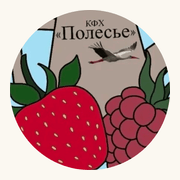
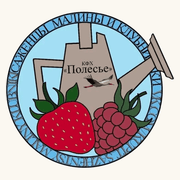
Эмблема целиком и крупнее, иконки шапки крупнее, подписи в корзине
Эмблема обрезалась: в шапке стоял вырезанный из неё диск без кольца, и нижний
край клубники срезало маской. Теперь везде — эмблема целиком, файл квадратный
с прозрачными полями, вписывается object-contain и не режется ни в каком размере.
Вариант без кольца убран, D-28 переписано.

В скрипте подготовки вместо вырезания диска — resize с fit: "contain". Отдельный
extend не годится: sharp выполняет операции в своём порядке и дополняет уже после
масштабирования, а resize по умолчанию режет по cover — из-за этого первая версия
квадрата и получилась обрезанной сверху и снизу.

Размеры: знак в шапке 32→44 px, на десктопе 48, в футере 36→48, на «О питомнике»
и в накладной тоже крупнее. Иконки поиска, избранного, кабинета и корзины 20→24 px,
кнопки под палец 40→44 px, счётчик подогнан под новый размер.

Подписи в компактном блоке доверия уезжали за карточку: три колонки раскладывались
по ширине экрана, а блок живёт в узкой колонке корзины и чекаута — на планшете
каждая колонка получала около 90 px, и текст закрывала соседняя карточка. В боковой
колонке блок теперь идёт списком, флекс-элементу добавлен min-w-0.

diff --git a/Seedlings/site/components/site-header.tsx b/Seedlings/site/components/site-header.tsx
@@ -50,15 +50,15 @@ export function SiteHeader() {
       <div className="shell flex h-16 items-center gap-3 lg:h-20 lg:gap-6">
         <button
           type="button"
-          className="text-ink -ml-1 flex size-10 items-center justify-center lg:hidden"
+          className="text-ink -ml-1 flex size-11 items-center justify-center lg:hidden"
           onClick={() => open("menu")}
           aria-label="Открыть меню"
         >
-          <IconMenu className="size-6" />
+          <IconMenu className="size-7" />
         </button>
 
         <Link href="/" className="flex items-center gap-2" aria-label={`${COMPANY.name} — на главную`}>
-          <Logo className="h-8 w-auto lg:h-9" priority />
+          <Logo className="h-11 w-auto lg:h-12" priority />
         </Link>
 
         <nav className="ml-4 hidden items-center gap-5 lg:flex">
@@ -124,33 +124,33 @@ export function SiteHeader() {
         <div className="ml-auto flex items-center gap-1">
           <button
             type="button"
-            className="hover:text-leaf flex size-10 items-center justify-center"
+            className="hover:text-leaf flex size-11 items-center justify-center"
             onClick={() => open("search")}
             aria-label="Поиск по каталогу"
           >
-            <IconSearch className="size-5" />
+            <IconSearch className="size-6" />
           </button>
           <Link
             href="/favorites"
-            className="hover:text-leaf relative flex size-10 items-center justify-center"
+            className="hover:text-leaf relative flex size-11 items-center justify-center"
             aria-label={`Избранное, ${favorites.length} ${plural(favorites.length, "товар", "товара", "товаров")}`}
           >
-            <IconHeart className="size-5" />
+            <IconHeart className="size-6" />
             {favorites.length > 0 && <Counter value={favorites.length} />}
           </Link>
           <Link
             href="/account"
-            className="hover:text-leaf hidden size-10 items-center justify-center lg:flex"
+            className="hover:text-leaf hidden size-11 items-center justify-center lg:flex"
             aria-label="Личный кабинет"
           >
-            <IconUser className="size-5" />
+            <IconUser className="size-6" />
           </Link>
           <Link
             href="/cart"
-            className="hover:text-leaf relative flex size-10 items-center justify-center"
+            className="hover:text-leaf relative flex size-11 items-center justify-center"
             aria-label={`Корзина, ${cartCount} ${plural(cartCount, "товар", "товара", "товаров")}`}
           >
-            <IconCart className="size-5" />
+            <IconCart className="size-6" />
             {cartCount > 0 && <Counter value={cartCount} />}
           </Link>
         </div>
@@ -164,7 +164,7 @@ export function SiteHeader() {
 
 function Counter({ value }: { value: number }) {
   return (
-    <span className="bg-leaf absolute top-1 right-0.5 min-w-4.5 rounded-full px-1 text-center text-[11px] leading-4.5 font-semibold text-white">
+    <span className="bg-leaf absolute top-1 right-0 min-w-5 rounded-full px-1 text-center text-xs leading-5 font-semibold text-white">
       {value}
     </span>
   );
@@ -174,7 +174,7 @@ function MobileMenu({ onClose, counts }: { onClose: () => void; counts: Record<s
   return (
     <div className="bg-cream fixed inset-0 z-50 flex flex-col lg:hidden">
       <div className="shell flex h-16 items-center justify-between">
-        <Logo className="h-8 w-auto" />
+        <Logo className="h-11 w-auto" />
         <button type="button" onClick={onClose} aria-label="Закрыть меню" className="flex size-10 items-center justify-center">
           <IconClose className="size-6" />
         </button>

diff --git a/Seedlings/site/components/logo.tsx b/Seedlings/site/components/logo.tsx
@@ -2,24 +2,20 @@ import Image from "next/image";
 import { COMPANY } from "@/lib/content";
 
 /**
- * Логотип. Знак берётся из `COMPANY.logo`; в интерфейсе высота знака 32–40 px, поэтому
- * по умолчанию рисуется вариант без кольцевой надписи (`COMPANY.logoMark`) —
- * на такой высоте кольцо превращается в шум. `full` включает полную эмблему:
- * страница «О питомнике» и шапка накладной, где места достаточно.
- * Пока файлов клиента нет — временная концепция из docs/05-ui-system.md §11.
+ * Логотип. Эмблема клиента показывается целиком: файл квадратный, с прозрачными полями,
+ * и вписывается `object-contain` — она не обрезается ни в каком размере (решение D-28).
+ * Пока файла клиента нет — временная концепция из docs/05-ui-system.md §11.
  */
 export function Logo({
   className = "",
-  full = false,
   priority = false,
   wordmark = COMPANY.logoWithWordmark,
 }: {
   className?: string;
-  full?: boolean;
   priority?: boolean;
   wordmark?: boolean;
 }) {
-  const src = full ? COMPANY.logo : (COMPANY.logoMark ?? COMPANY.logo);
+  const src = COMPANY.logo;
 
   return (
     <span className={`inline-flex items-center gap-2 ${className}`}>
@@ -30,7 +26,7 @@ export function Logo({
             /* Подпись рядом со знаком повторяет название — тогда знак для скринридера декоративен */
             alt={wordmark ? "" : COMPANY.name}
             fill
-            sizes={full ? "224px" : "48px"}
+            sizes="224px"
             className="object-contain"
             priority={priority}
           />

diff --git a/Seedlings/site/components/ui.tsx b/Seedlings/site/components/ui.tsx
@@ -130,13 +130,17 @@ const TRUST = [
 export function TrustBlock({ compact = false }: { compact?: boolean }) {
   const items = compact ? TRUST.slice(0, 3) : TRUST;
   return (
-    <ul className={`grid gap-3 ${compact ? "sm:grid-cols-3" : "sm:grid-cols-2 lg:grid-cols-4"}`}>
+    // Компактный блок живёт в узкой колонке корзины и чекаута. Три колонки там раскладывались
+    // по ширине экрана, а не колонки: на планшете каждая получала ~90 px, и подписи вылезали
+    // за карточку — их закрывала соседняя. В боковой колонке блок идёт списком.
+    <ul className={`grid gap-3 ${compact ? "" : "sm:grid-cols-2 lg:grid-cols-4"}`}>
       {items.map(({ icon: Icon, ...t }) => (
         <li key={t.title} className="card-surface flex gap-3 p-4">
           <span className="bg-leaf-soft text-leaf-deep flex size-10 shrink-0 items-center justify-center rounded-full">
             <Icon className="size-5" />
           </span>
-          <span>
+          {/* min-w-0: без него флекс-элемент не сжимается уже своего содержимого и текст вылезает */}
+          <span className="min-w-0">
             <span className="block text-sm font-semibold">{t.title}</span>
             <span className="text-ink-muted mt-0.5 block text-sm leading-snug">{t.text}</span>
           </span>

diff --git a/Seedlings/site/lib/content.ts b/Seedlings/site/lib/content.ts
@@ -3,14 +3,12 @@
 export const COMPANY = {
   name: "Полесье",
   /**
-   * Эмблема клиента. `logo` — полная, с кольцевой надписью «САЖЕНЦЫ МАЛИНЫ И КЛУБНИКИ»;
-   * `logoMark` — тот же рисунок без кольца, для мелких размеров: ниже 40 px надпись
-   * превращается в шум (docs/05-ui-system.md §11). Оба файла пересобираются из
-   * `Seedlings/assets/logo-source.png` командой `node Seedlings/scripts/logo-prep.mjs`.
-   * `null` в обоих полях — рисуется временный знак.
+   * Эмблема клиента — целиком, вместе с кольцевой надписью и носиком лейки.
+   * Файл квадратный, с прозрачными полями, и нигде не обрезается (решение D-28).
+   * Пересобирается из `Seedlings/assets/logo-source.png` командой
+   * `node Seedlings/scripts/logo-prep.mjs`. `null` — рисуется временный знак.
    */
   logo: "/logo/polesie.png" as string | null,
-  logoMark: "/logo/polesie-mark.png" as string | null,
   /** Показывать ли название текстом рядом со знаком */
   logoWithWordmark: true,
   legal: "КФХ Полесье",

diff --git a/Seedlings/site/components/site-footer.tsx b/Seedlings/site/components/site-footer.tsx
@@ -21,7 +21,7 @@ export function SiteFooter() {
     <footer className="bg-surface border-line mt-16 border-t no-print">
       <div className="shell grid gap-10 py-12 md:grid-cols-2 lg:grid-cols-5">
         <div>
-          <Logo className="h-9 w-auto" />
+          <Logo className="h-12 w-auto" />
           <p className="text-ink-muted mt-4 text-sm leading-relaxed">
             Питомник рассады и саженцев. Выращиваем сами с 2014 года, отправляем по всей России
             и отдаём на самовывоз в Тульской области.

diff --git a/Seedlings/site/app/about/page.tsx b/Seedlings/site/app/about/page.tsx
@@ -16,7 +16,7 @@ export default function AboutPage() {
     <div className="shell pb-16">
       <Breadcrumbs items={[{ href: "/", label: "Главная" }, { label: "О питомнике" }]} />
       <div className="flex flex-wrap items-center gap-5">
-        <Logo full wordmark={false} className="h-24 w-auto lg:h-28" />
+        <Logo wordmark={false} className="h-28 w-auto lg:h-32" />
         <h1 className="font-display text-3xl leading-tight font-bold lg:text-4xl">
           {COMPANY.years} лет, {COMPANY.varieties} сортов, {COMPANY.orders} заказов
         </h1>

diff --git a/Seedlings/site/components/invoice-view.tsx b/Seedlings/site/components/invoice-view.tsx
@@ -51,7 +51,7 @@ export function InvoiceView({ id }: { id: string }) {
             <p className="text-ink-muted mt-1 text-sm">от {formatDate(order.createdAt)}</p>
           </div>
           <div className="flex items-start gap-3 text-sm">
-            <Logo full wordmark={false} className="h-14 w-auto shrink-0" />
+            <Logo wordmark={false} className="h-16 w-auto shrink-0" />
             <div>
               <p className="font-semibold">{COMPANY.name}</p>
               <p className="text-ink-muted">{COMPANY.legal}</p>

diff --git a/Seedlings/site/public/photos/slugs.md b/Seedlings/site/public/photos/slugs.md
@@ -1,0 +1,101 @@
+# Имена файлов: слаги сортов
+
+Снимок демонстрационного каталога на 25 августа 2026 — 54 сорта. Когда каталог заменят
+выгрузкой клиента, слаги изменятся; пересобрать список можно с поднятого сайта:
+
+```bash
+pnpm start:seedlings
+curl -s http://localhost:3210/sitemap.xml | grep -o '/product/[a-z0-9-]*' | sed 's|/product/||' | sort
+```
+
+Имя файла = слаг, дополнительные кадры — суффиксы `-2`, `-3`: `klubnika-polka.jpg`,
+`klubnika-polka-2.jpg`. Правила формата и что снимать — в `README.md` рядом.
+
+## Клубника — 12
+
+| Файл | Сорт |
+|---|---|
+| `klubnika-albion.jpg` | Альбион |
+| `klubnika-aziya.jpg` | Азия |
+| `klubnika-elsanta.jpg` | Эльсанта |
+| `klubnika-gigantella-maksim.jpg` | Гигантелла Максим |
+| `klubnika-honey.jpg` | Хоней |
+| `klubnika-kleri.jpg` | Клери |
+| `klubnika-lord.jpg` | Лорд |
+| `klubnika-malvina.jpg` | Мальвина |
+| `klubnika-monterey.jpg` | Монтерей |
+| `klubnika-polka.jpg` | Полка |
+| `klubnika-san-andreas.jpg` | Сан Андреас |
+| `klubnika-zenga-zengana.jpg` | Зенга Зенгана |
+
+## Малина — 10
+
+| Файл | Сорт |
+|---|---|
+| `malina-atlant.jpg` | Атлант |
+| `malina-bryanskoe-divo.jpg` | Брянское диво |
+| `malina-gerakl.jpg` | Геракл |
+| `malina-gusar.jpg` | Гусар |
+| `malina-karamelka.jpg` | Карамелька |
+| `malina-kaskad-delayt.jpg` | Каскад Делайт |
+| `malina-novost-kuzmina.jpg` | Новость Кузьмина |
+| `malina-polka.jpg` | Полка |
+| `malina-tarusa.jpg` | Таруса |
+| `malina-zheltyy-gigant.jpg` | Жёлтый гигант |
+
+## Смородина — 8
+
+| Файл | Сорт |
+|---|---|
+| `smorodina-bagira.jpg` | Багира |
+| `smorodina-dzhonker-van-tets.jpg` | Джонкер ван Тетс |
+| `smorodina-ekzotika.jpg` | Экзотика |
+| `smorodina-pigmey.jpg` | Пигмей |
+| `smorodina-rozetta.jpg` | Розетта |
+| `smorodina-selechenskaya-2.jpg` | Селеченская-2 |
+| `smorodina-versalskaya-belaya.jpg` | Версальская белая |
+| `smorodina-yadrenaya.jpg` | Ядрёная |
+
+## Крыжовник — 5
+
+| Файл | Сорт |
+|---|---|
+| `kryzhovnik-chernoslivovyy.jpg` | Черносливовый |
+| `kryzhovnik-grushenka.jpg` | Грушенька |
+| `kryzhovnik-komandor.jpg` | Командор |
+| `kryzhovnik-medovyy.jpg` | Медовый |
+| `kryzhovnik-uralskiy-izumrud.jpg` | Уральский изумруд |
+
+## Жимолость — 5
+
+| Файл | Сорт |
+|---|---|
+| `zhimolost-bakcharskiy-velikan.jpg` | Бакчарский великан |
+| `zhimolost-doch-velikana.jpg` | Дочь великана |
+| `zhimolost-silginka.jpg` | Сильгинка |
+| `zhimolost-vostorg.jpg` | Восторг |
+| `zhimolost-yugol.jpg` | Юголь |
+
+## Овощная рассада — 8
+
+| Файл | Сорт |
+|---|---|
+| `ovoshchnaya-rassada-almaz.jpg` | Алмаз |
+| `ovoshchnaya-rassada-byche-serdtse.jpg` | Бычье сердце |
+| `ovoshchnaya-rassada-cherri-ira.jpg` | Черри Ира |
+| `ovoshchnaya-rassada-dzhemini-f1.jpg` | Джемини F1 |
+| `ovoshchnaya-rassada-kurazh-f1.jpg` | Кураж F1 |
+| `ovoshchnaya-rassada-ratunda.jpg` | Ратунда |
+| `ovoshchnaya-rassada-sanka.jpg` | Санька |
+| `ovoshchnaya-rassada-slava.jpg` | Слава |
+
+## Цветочная рассада — 6
+
+| Файл | Сорт |
+|---|---|
+| `tsvety-barhattsy-karmen.jpg` | Бархатцы Кармен |
+| `tsvety-floks-metelchatyy-evropa.jpg` | Флокс метельчатый Европа |
+| `tsvety-hosta-goluboy-angel.jpg` | Хоста Голубой ангел |
+| `tsvety-lavanda-uzkolistnaya.jpg` | Лаванда узколистная |
+| `tsvety-petuniya-sofistika.jpg` | Петуния Софистика |
+| `tsvety-viola-sviss-dzhaynts.jpg` | Виола Свисс Джайнтс |

diff --git a/Seedlings/site/public/photos/README.md b/Seedlings/site/public/photos/README.md
@@ -10,12 +10,19 @@ malina-karamelka.jpg
 ```
 
 Слаг сорта виден в адресе карточки: `/product/klubnika-polka` → `klubnika-polka`.
+Полный список всех 54 сортов с готовыми именами файлов — в `slugs.md` рядом.
 
 Что снимать на сорт (docs/05-ui-system.md §10): растение целиком в фасовке,
 корневая система крупно, урожай. Кадр с корневой системой — главный аргумент доверия.
 
 Формат: JPEG или WebP, длинная сторона 1200–1600 px, вес до 400 КБ.
 Пропорции кадра 4:5 (вертикальный) — под сетку каталога.
+
+Кадр другой пропорции не сломает вёрстку: изображение вписывается `object-cover`,
+то есть обрезается по центру контейнера. Поэтому у снимков из ВКонтакте — обычно
+квадратных или 4:3 — растение должно стоять по центру, иначе край уедет под обрез.
+Тяжёлые файлы из ВК стоит пережать: в раздаче они лежат как есть, оптимизирует их
+Next.js уже на лету, но исходник всё равно попадает в репозиторий.
 
 После добавления файлов выполните:
 
